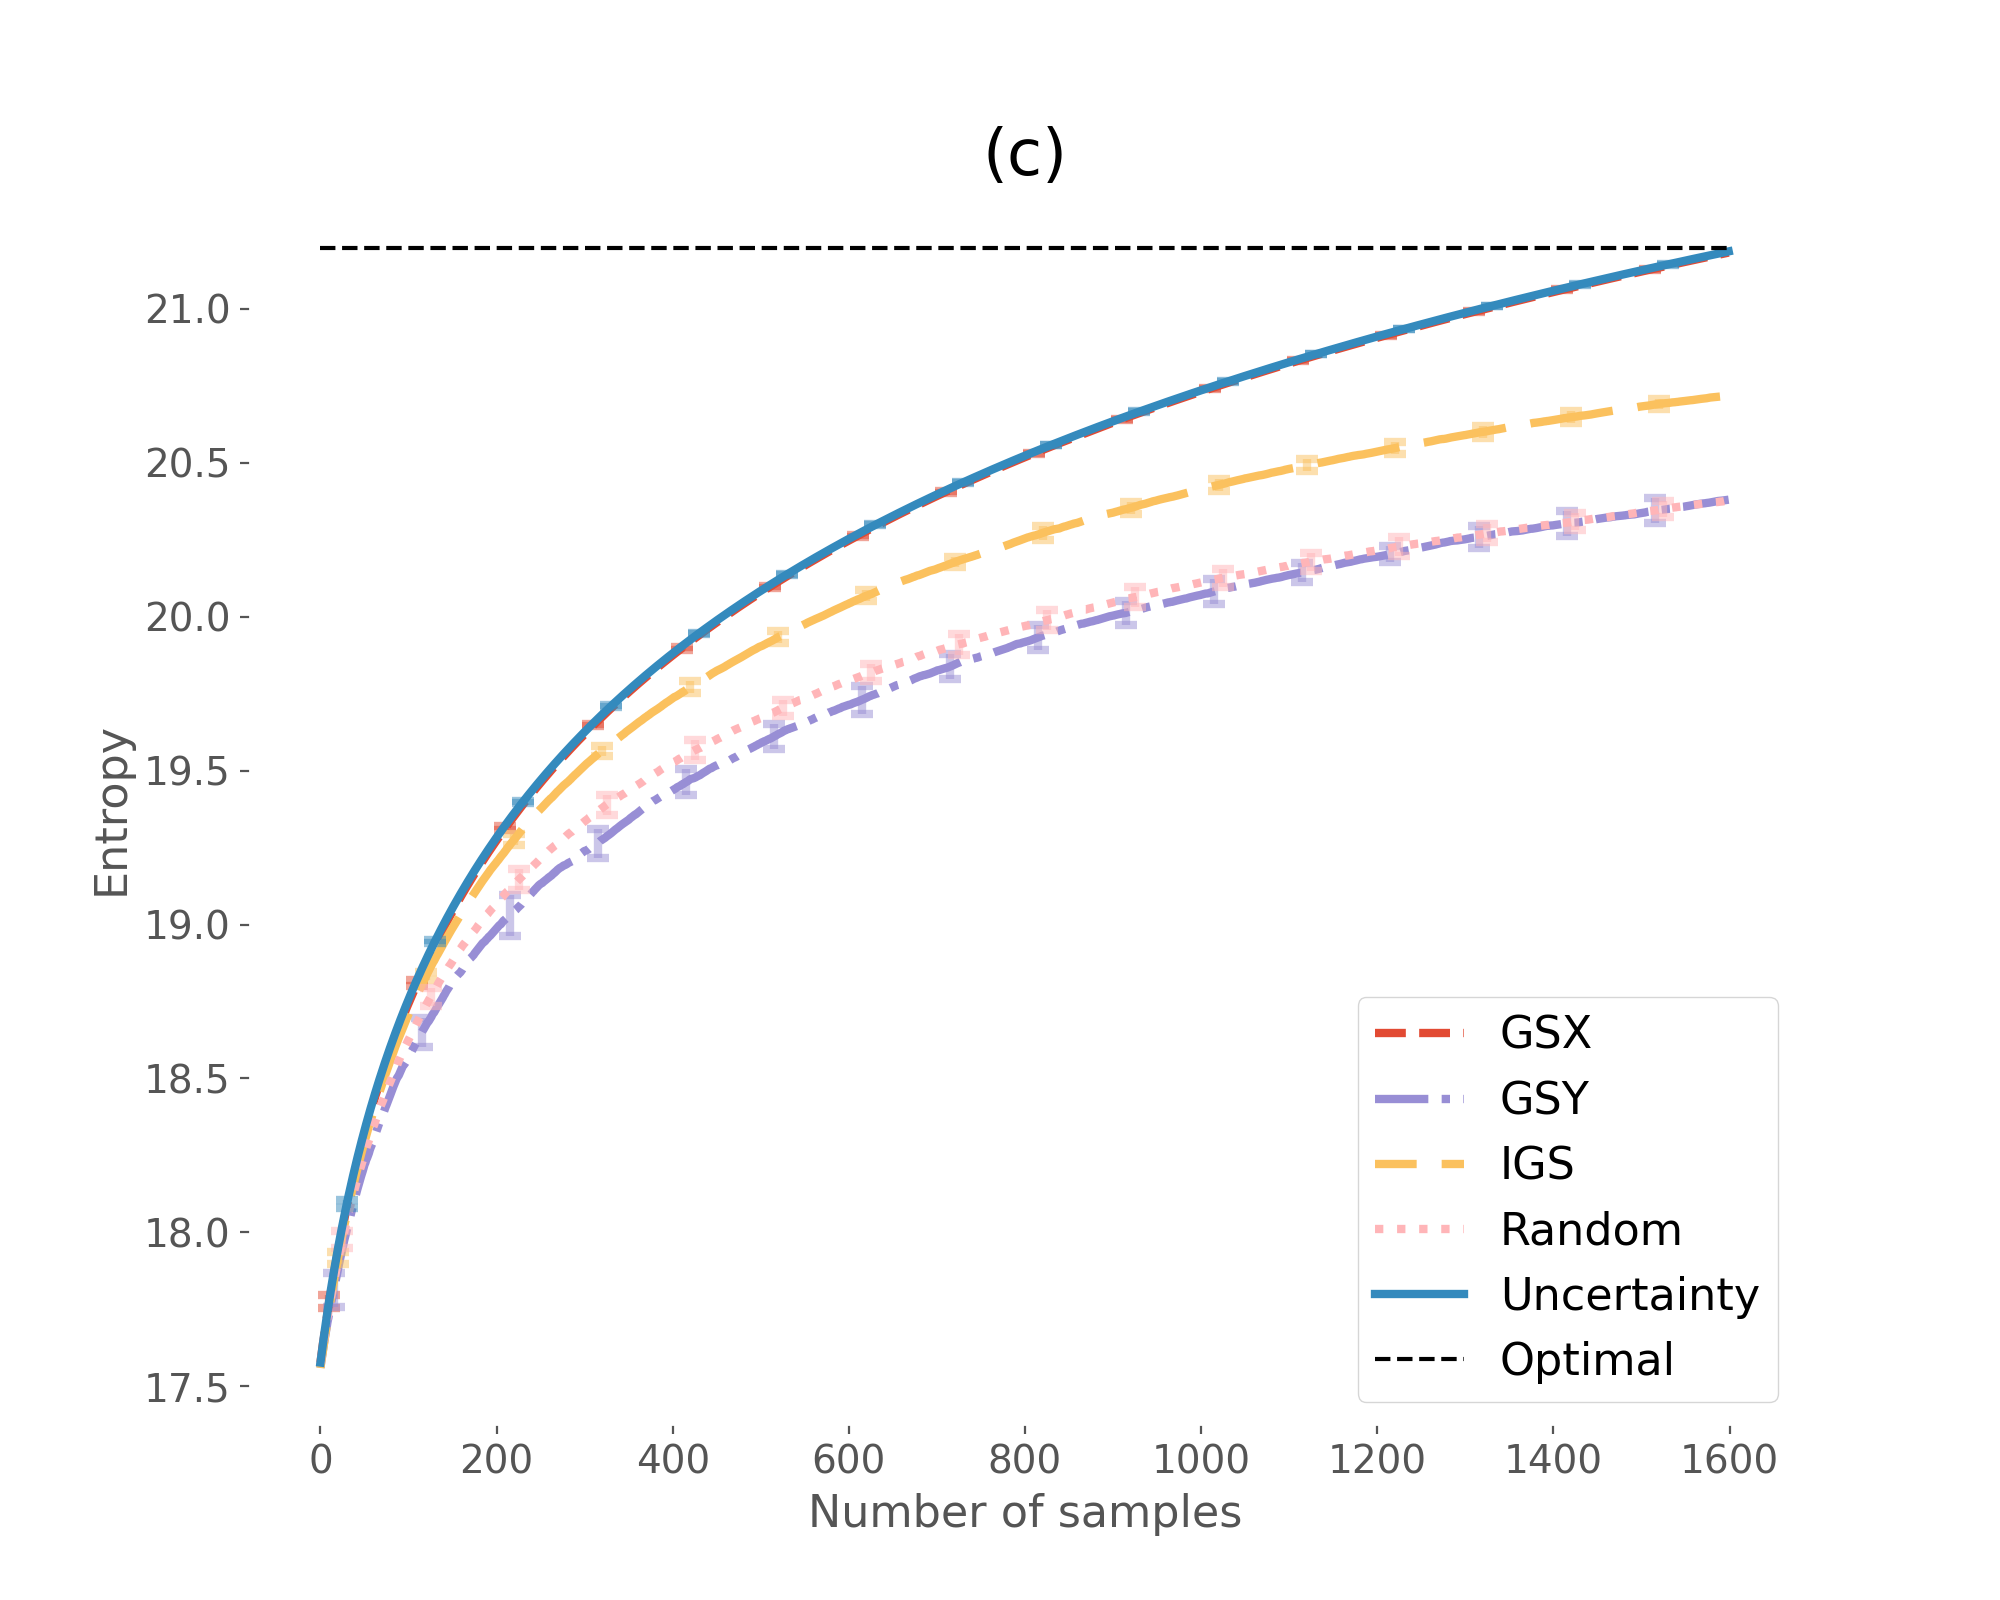
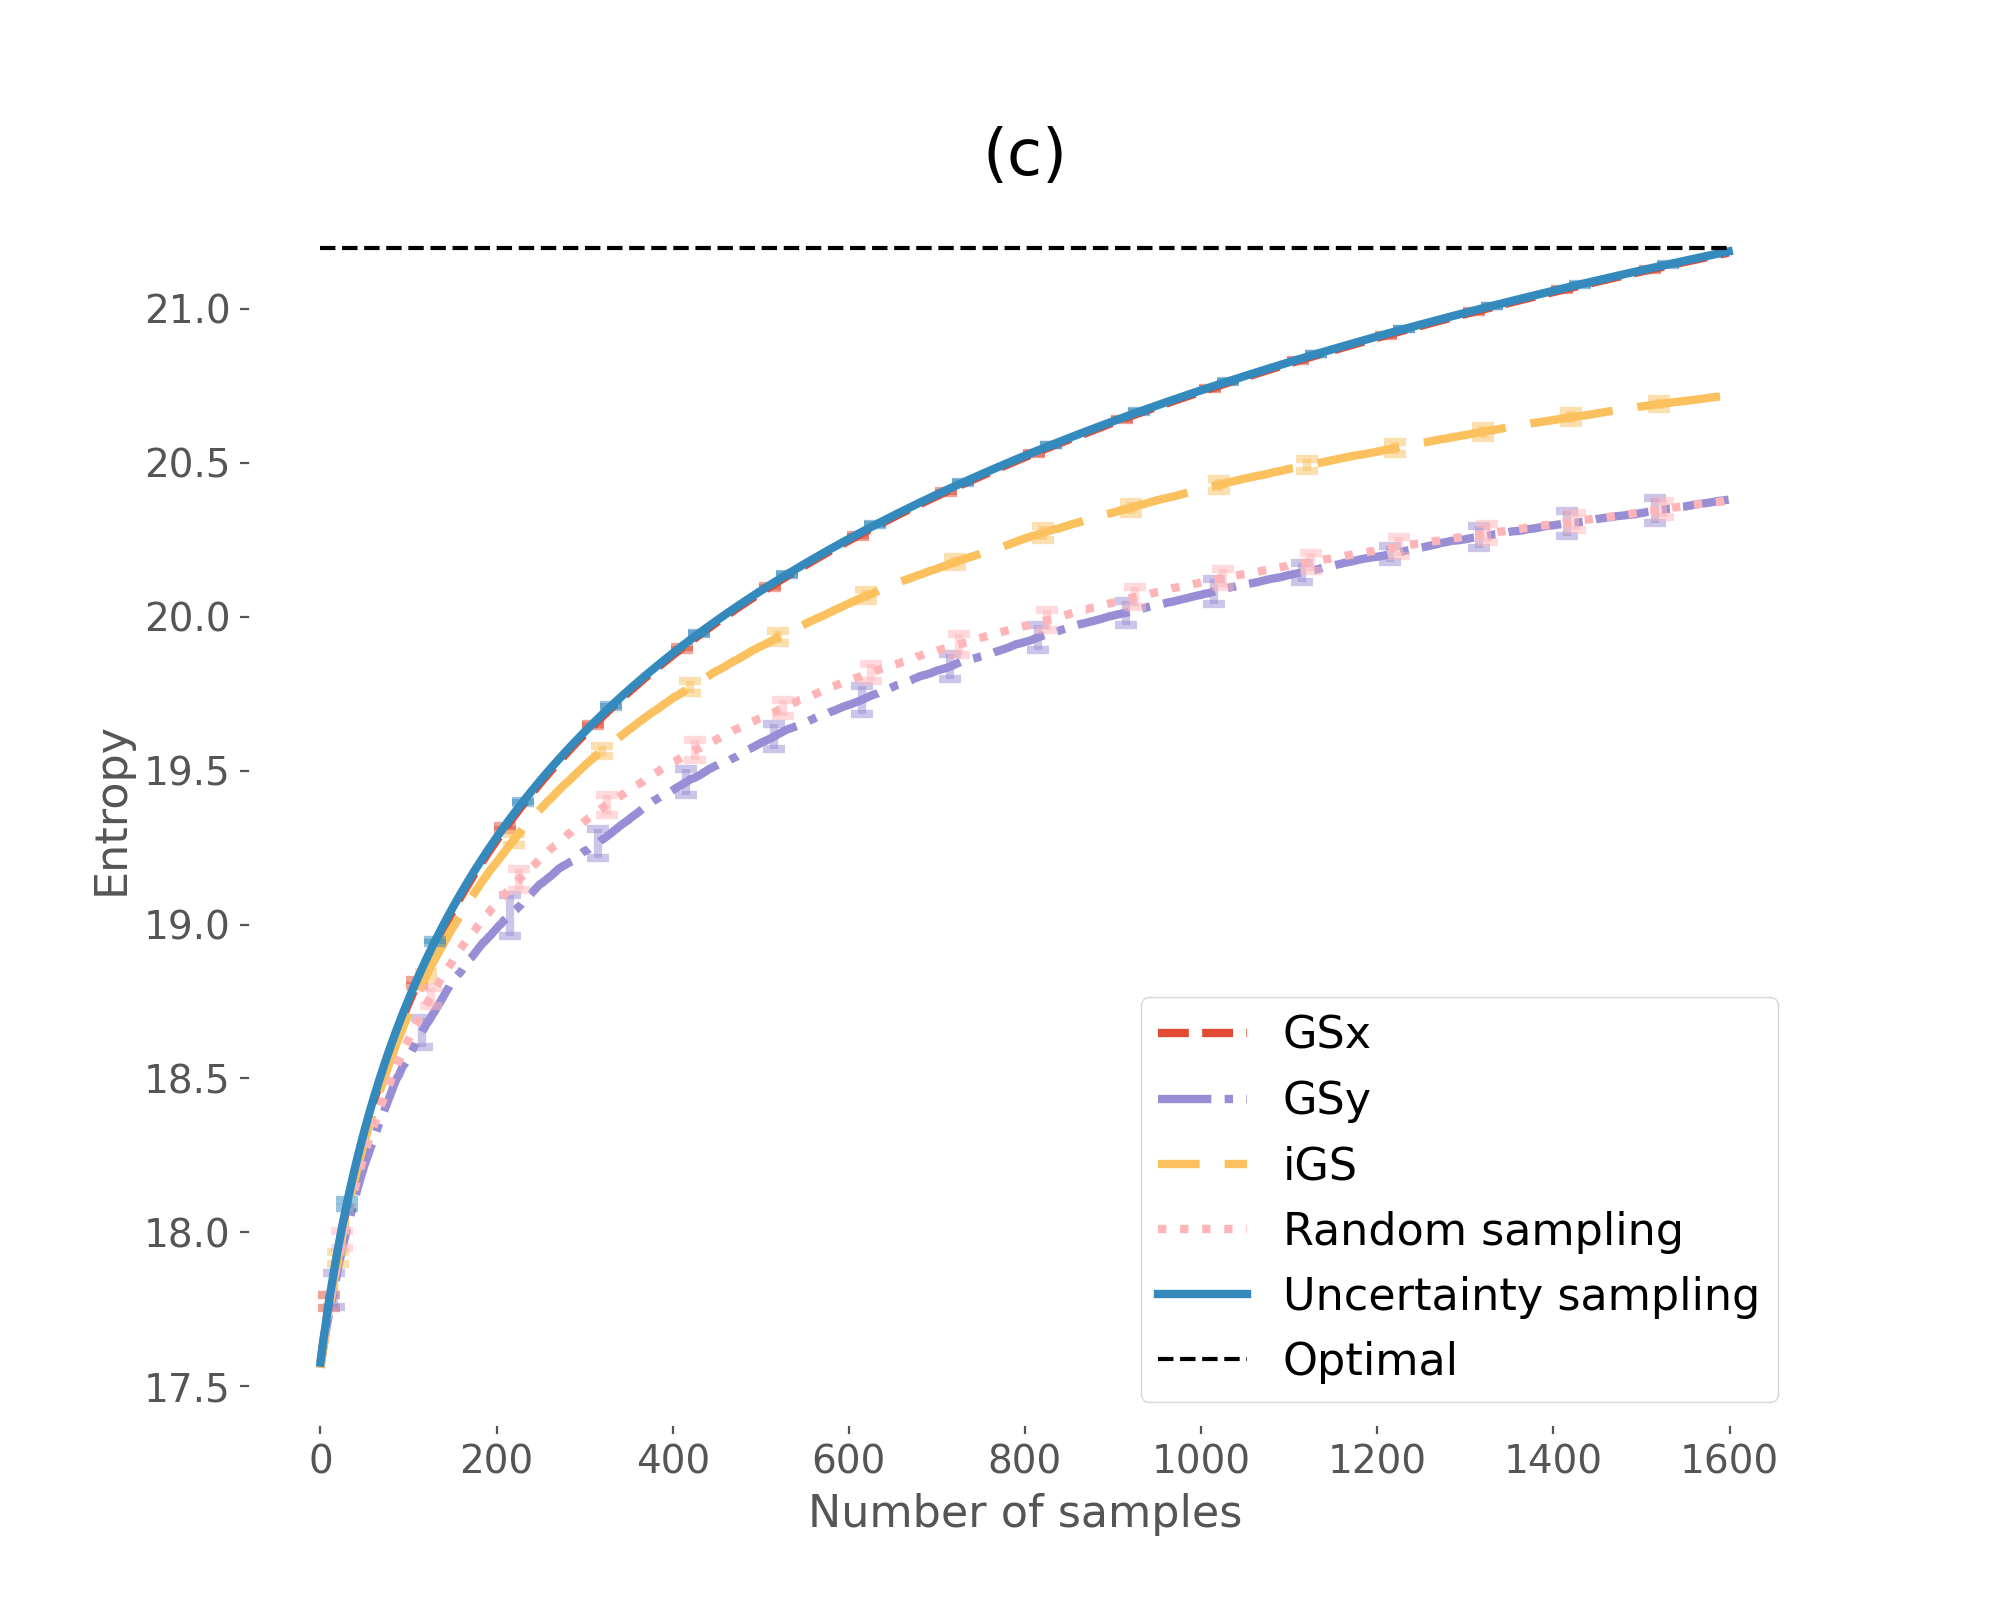
update 3D diversity plot

diff --git a/3D/plot-diversity.md b/3D/plot-diversity.md
@@ -45,11 +45,11 @@ def plot_diversity(scores, opt=None, error_freq=20, ylog=False):
     ax = plt.gca()
     matplotlib.rc('font', **dict(size=16))
     names = dict(
-        uncertainty=('Uncertainty', 'solid'),
-        random=("Random", 'dotted'),
-        gsx=("GSX", 'dashed'),
-        gsy=("GSY", 'dashdot'),
-        igs=("IGS", (5, (10, 3)))
+        uncertainty=('Uncertainty sampling', 'solid'),
+        random=("Random sampling", 'dotted'),
+        gsx=("GSx", 'dashed'),
+        gsy=("GSy", 'dashdot'),
+        igs=("iGS", (5, (10, 3)))
     )
 
     offset = 10
